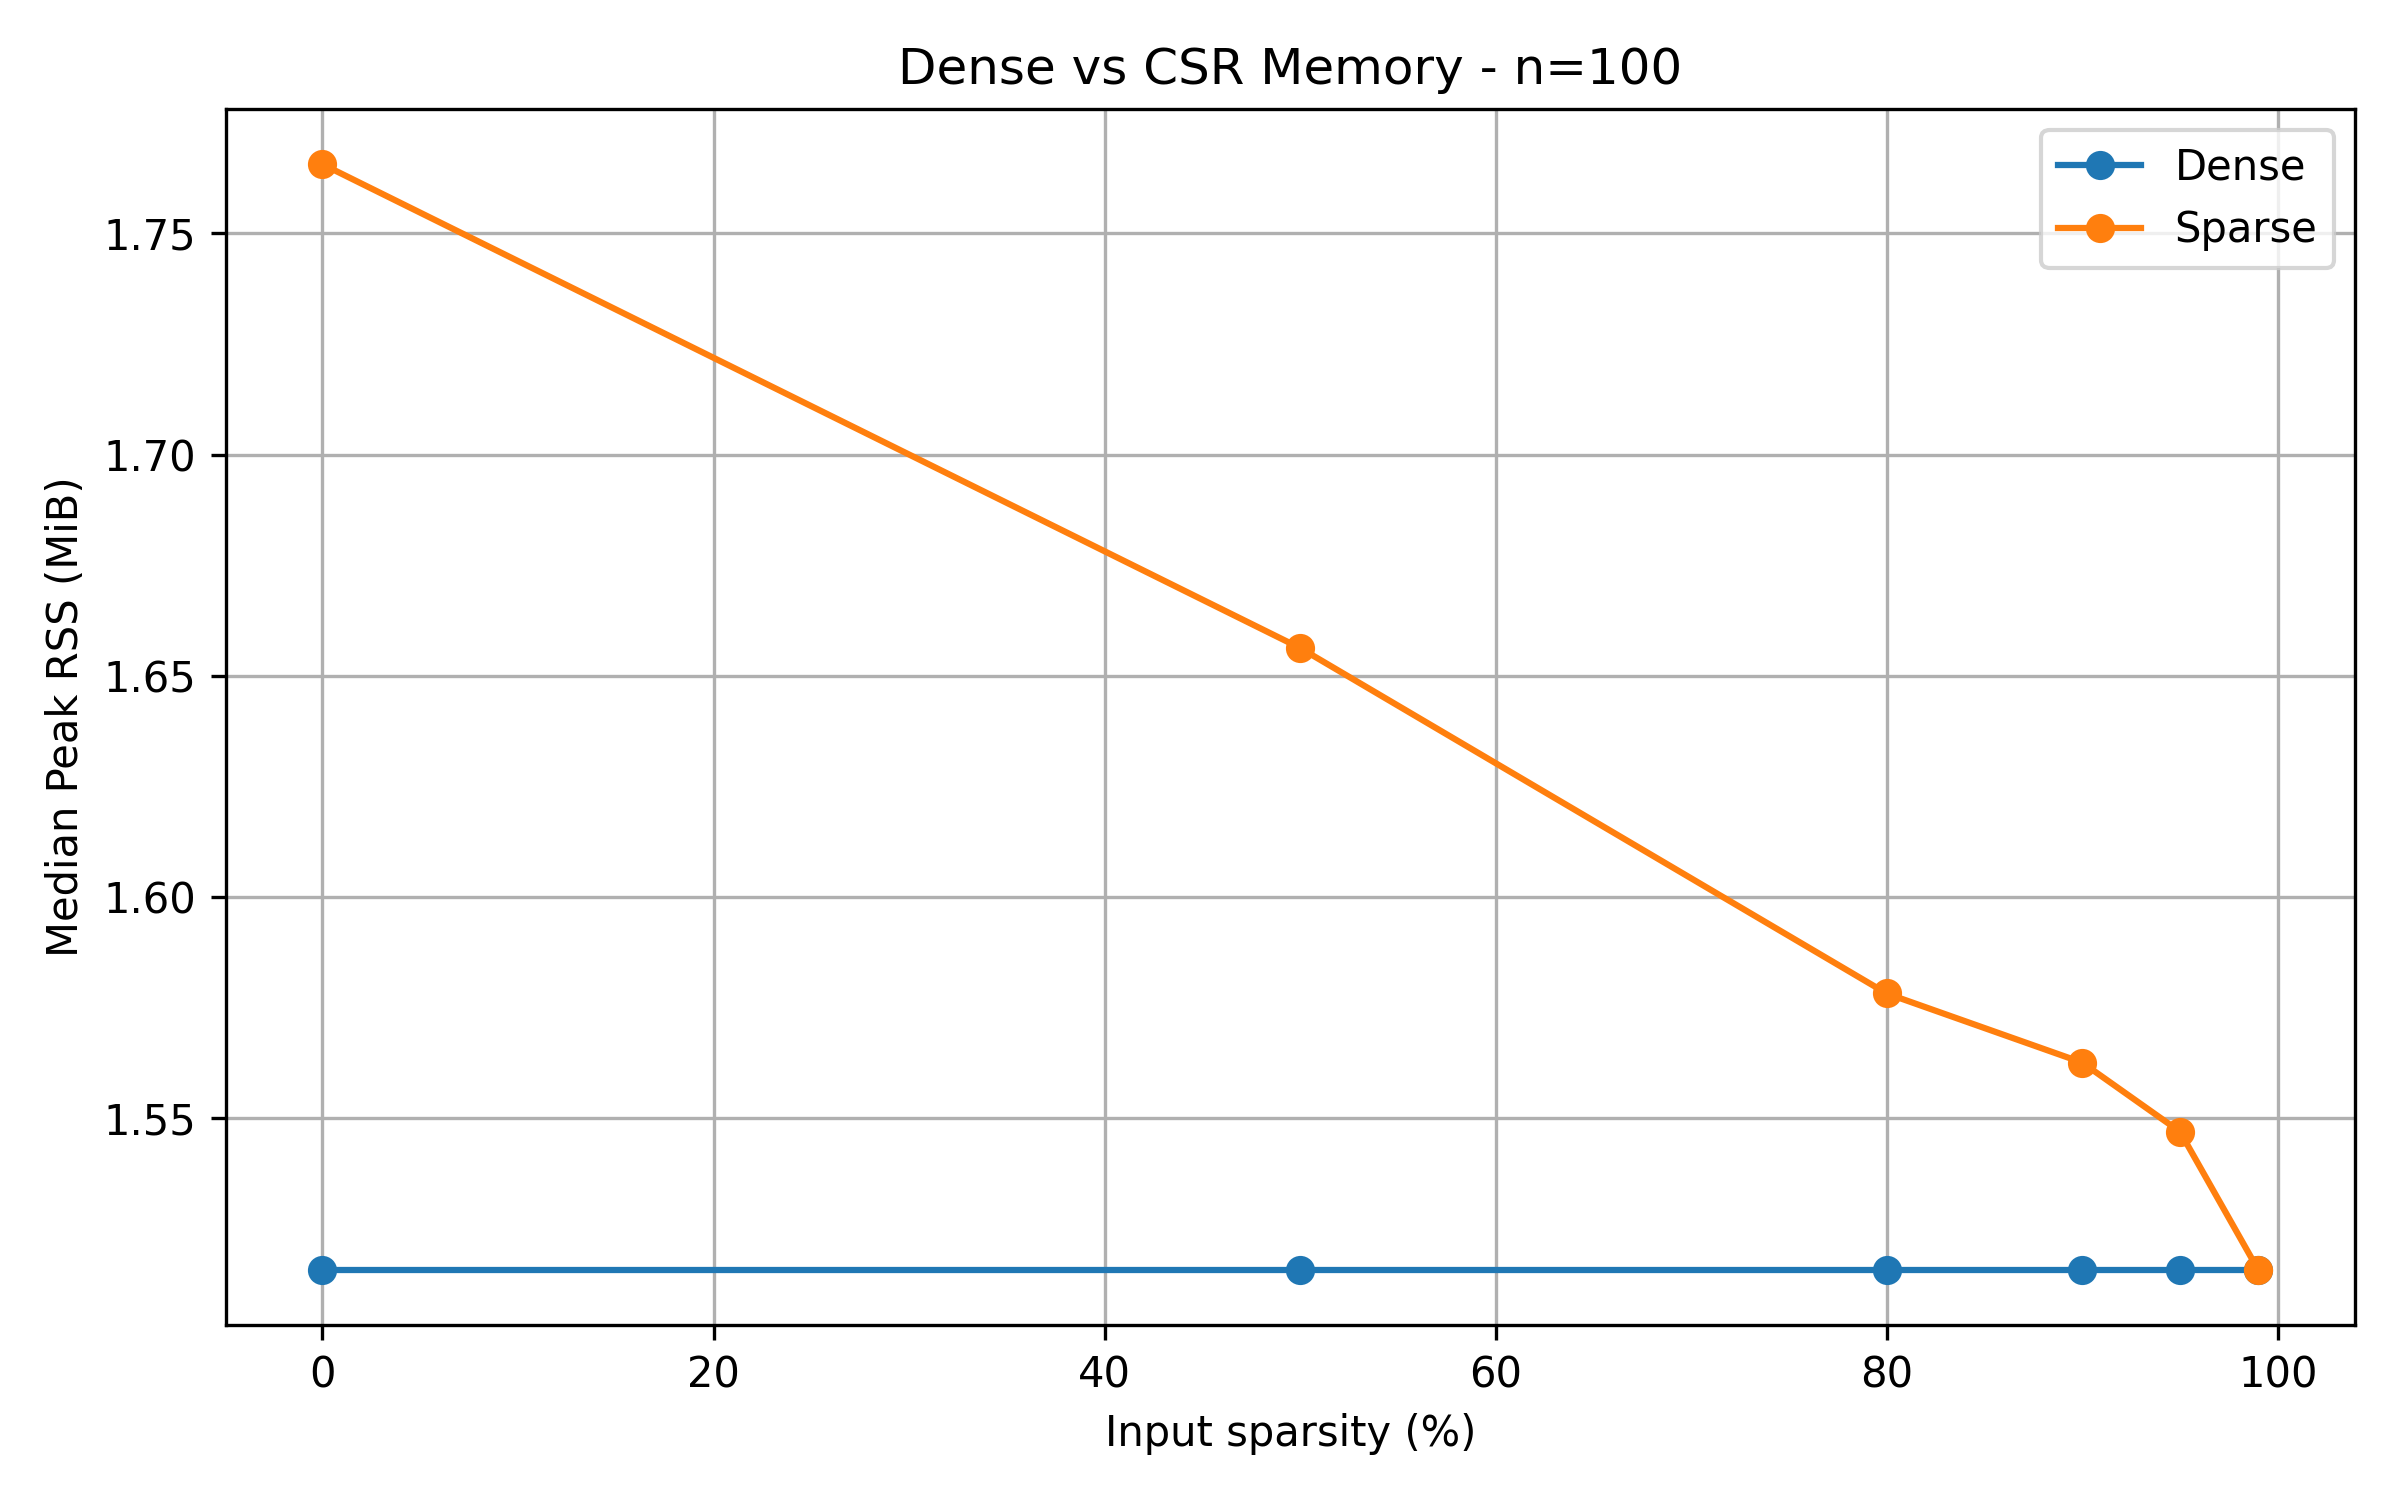
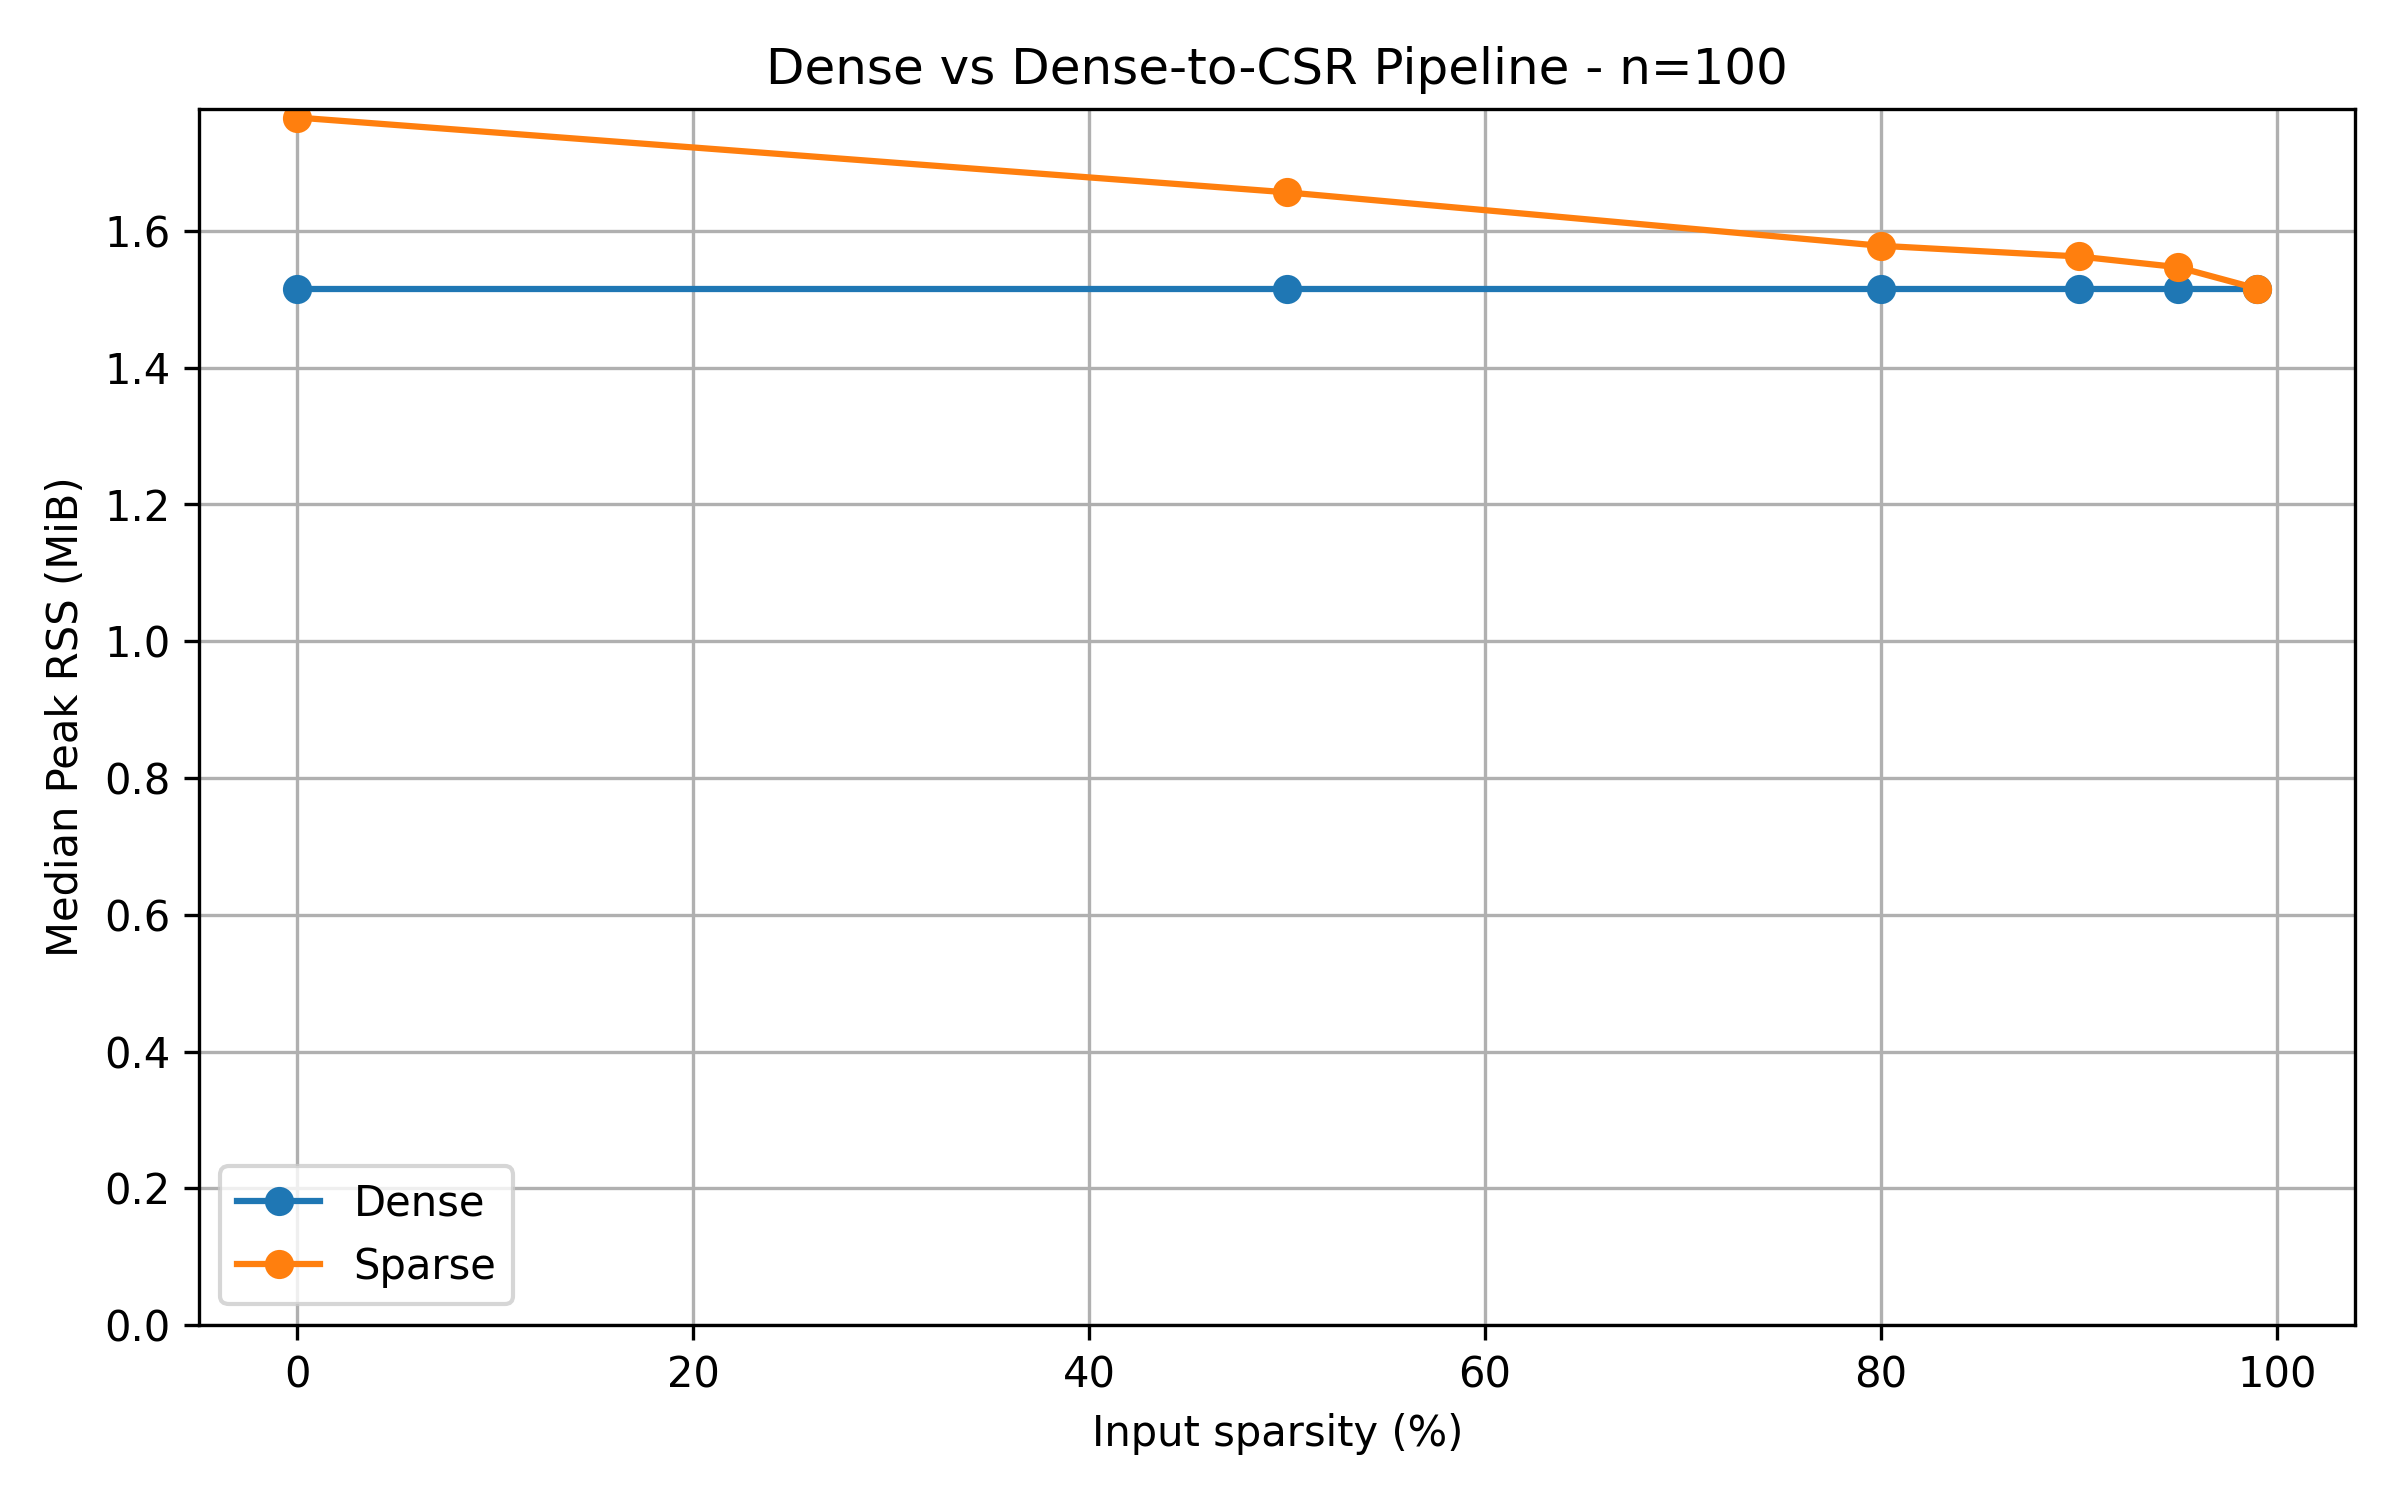
Finalize matrix validation, scalability and sparse memory analysis

diff --git a/analysis/analyse_sparse.py b/analysis/analyse_sparse.py
@@ -257,7 +257,8 @@ for n in SIZES:
 
     plt.xlabel("Input sparsity (%)")
     plt.ylabel("Median Peak RSS (MiB)")
-    plt.title(f"Dense vs CSR Memory - n={n}")
+    plt.title(f"Dense vs Dense-to-CSR Pipeline - n={n}")
+    plt.ylim(bottom=0)
     plt.legend()
     plt.grid(True)
     plt.tight_layout()
@@ -331,6 +332,66 @@ plt.tight_layout()
 
 plt.savefig(
     FIGURES / "sparse_speedup_total.png",
+    dpi=300
+)
+plt.close()
+
+
+
+n = 500
+
+dense_storage = []
+csr_storage = []
+
+for sparsity in SPARSITIES:
+
+    rows = [
+        row for row in time_rows
+        if int(row["matrix_size"]) == n
+        and int(row["sparsity"]) == sparsity
+    ]
+
+    nnz_a = int(rows[0]["nnz_A"])
+    nnz_b = int(rows[0]["nnz_B"])
+
+    # Storage of both input matrices
+    dense_bytes = 2 * 8 * n * n
+
+    csr_bytes = (
+        12 * nnz_a + 4 * (n + 1)
+        + 12 * nnz_b + 4 * (n + 1)
+    )
+
+    dense_storage.append(dense_bytes / (1024 * 1024))
+    csr_storage.append(csr_bytes / (1024 * 1024))
+
+
+plt.figure(figsize=(8, 5))
+
+plt.plot(
+    SPARSITIES,
+    dense_storage,
+    marker="o",
+    label="Dense inputs (A + B)"
+)
+
+plt.plot(
+    SPARSITIES,
+    csr_storage,
+    marker="o",
+    label="CSR inputs (A + B)"
+)
+
+plt.xlabel("Input sparsity (%)")
+plt.ylabel("Theoretical storage (MiB)")
+plt.title("Theoretical Input Storage - n=500")
+plt.ylim(bottom=0)
+plt.legend()
+plt.grid(True)
+plt.tight_layout()
+
+plt.savefig(
+    FIGURES / "sparse_theoretical_storage.png",
     dpi=300
 )
 plt.close()

diff --git a/tests/test_final.py b/tests/test_final.py
@@ -1,0 +1,63 @@
+
+import subprocess
+from pathlib import Path
+
+ROOT = Path(__file__).resolve().parents[1]
+
+DENSE = ROOT / "src/c/run_matrix_validate"
+SPARSE = ROOT / "src/c/run_sparse"
+
+SIZES = [50, 100, 150, 200, 250, 500, 750, 1000]
+SPARSITIES = [0, 50, 80, 90, 95, 99]
+
+
+def run_program(command):
+    result = subprocess.run(
+        [str(x) for x in command],
+        cwd=ROOT,
+        capture_output=True,
+        text=True,
+        check=True
+    )
+    return result.stdout
+
+
+print("=== DENSE VALIDATION ===")
+
+for n in SIZES:
+    checksums = []
+
+    for method in ["basic", "reordered", "blocked"]:
+        block_size = 32 if n <= 250 else 128
+
+        output = run_program([
+            DENSE, method, n, block_size
+        ])
+
+        _, checksum = output.strip().split(",")
+        checksums.append(int(checksum))
+
+    if len(set(checksums)) != 1:
+        raise AssertionError(f"Dense mismatch: n={n}")
+
+    print(f"PASS Dense n={n}")
+
+
+print("\n=== SPARSE VALIDATION ===")
+
+for n in [100, 250, 500]:
+    for sparsity in SPARSITIES:
+
+        output = run_program([
+            SPARSE, n, sparsity
+        ])
+
+        if "Dense and Sparse results match." not in output:
+            raise AssertionError(
+                f"Sparse mismatch: n={n}, sparsity={sparsity}"
+            )
+
+        print(f"PASS Sparse n={n}, sparsity={sparsity}%")
+
+
+print("\nALL FINAL TESTS PASSED")

diff --git a/benchmark/generate_scaling_input.py b/benchmark/generate_scaling_input.py
@@ -1,0 +1,41 @@
+
+import csv
+import random
+import sys
+from pathlib import Path
+
+ROOT = Path(__file__).resolve().parents[1]
+INPUTS = ROOT / "inputs"
+
+if len(sys.argv) != 2:
+    raise SystemExit(
+        "Usage: python3 -m benchmark.generate_scaling_input SIZE"
+    )
+
+n = int(sys.argv[1])
+
+if n <= 0 or n > 2000:
+    raise ValueError("Size must be between 1 and 2000")
+
+INPUTS.mkdir(parents=True, exist_ok=True)
+
+rng = random.Random(42 + n)
+
+for name in ["A", "B"]:
+
+    filename = INPUTS / f"{name}_{n}.csv"
+
+    if filename.exists():
+        raise FileExistsError(
+            f"{filename} already exists. Refusing to overwrite."
+        )
+
+    with open(filename, "w", newline="") as file:
+        writer = csv.writer(file)
+
+        for _ in range(n):
+            writer.writerow([
+                rng.randint(0, 9) for _ in range(n)
+            ])
+
+    print("Created:", filename)
